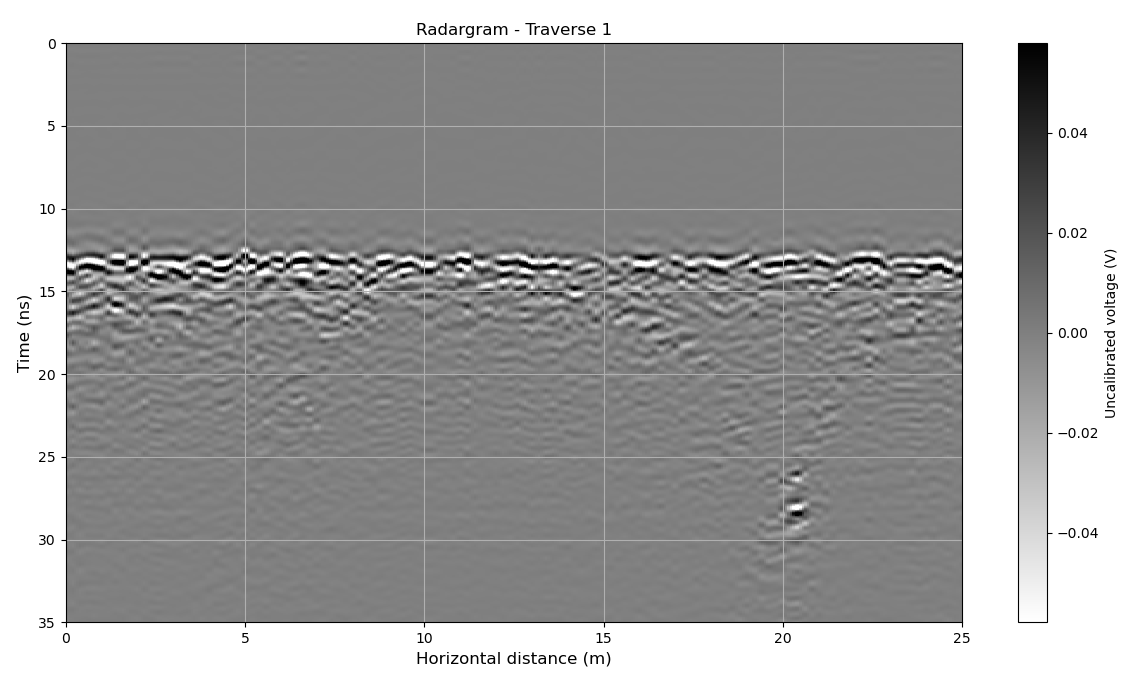
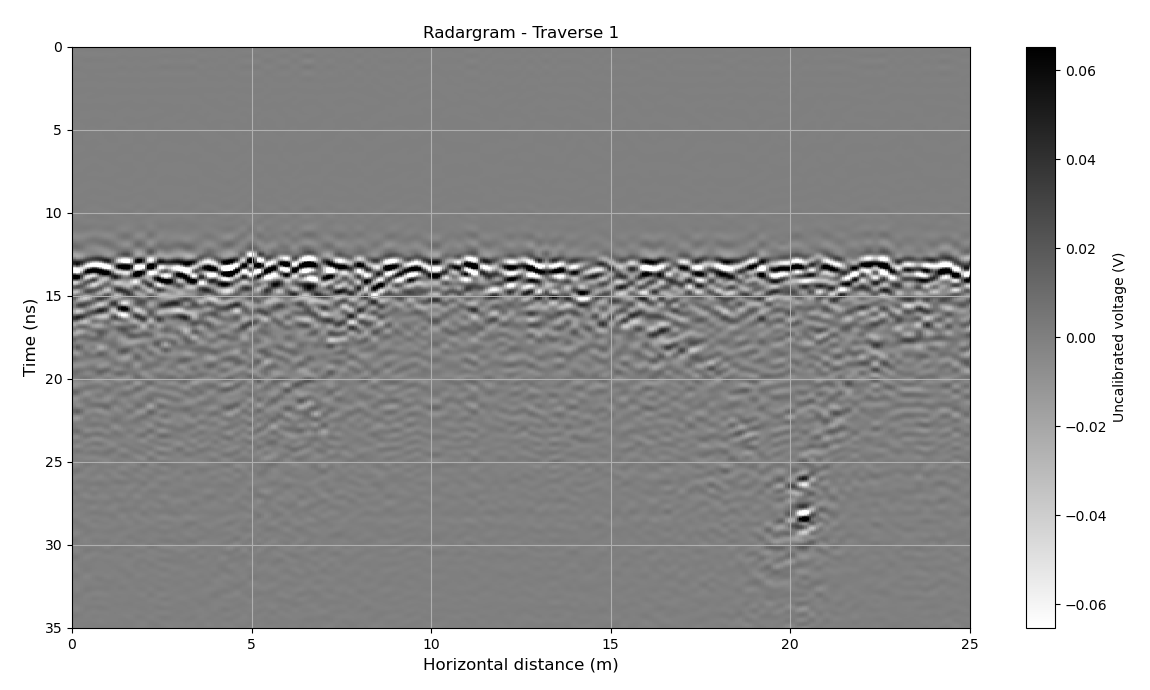
-Progress on WISDOM.

diff --git a/docs/TP_WISDOM.md b/docs/TP_WISDOM.md
@@ -741,13 +741,24 @@ Vous pouvez jouer sur la valeur du coefficient $\alpha$ pour tester son effet.
 |De manière générale, les hautes fréquences sont plus fortement atténuées que les basses.|
 |Notre fonction de gain ne dépendant pas de la fréquence, elle ne pourra jamais compenser parfaitement les pertes dans le sous-sol.|
 
-Vous l'avez sûrement remarqué, notre radargramme a toujours un aspect "pixélisé", malgré l'interpolation du "zero-padding" implémentée plus tôt.
-
-C'est lié au fait que le nombre de lignes de notre radargramme (5006) est beaucoup plus grand que le nombre de colonnes (126).
+Vous l'avez sûrement remarqué, notre radargramme a toujours un aspect "pixélisé" selon l'axe horizontal.
 
 Pour atténuer cet effet visuel, nous allons dans la suite appliquer une interpolation horizontale aux radargrammes de WISDOM.
 
 ### Interpolation horizontale
+
+Lors de la mission ExoMars, il est prévu que les sondages WISDOM soient acquis avec **un pas horizontal de 10 cm**.
+Dans le cas des 3 traverses effectués le 15/03/2022 au Svalbard, les sondages ont été acquis avec **un pas horizontal de 20 cm**.
+
+Dans un proche sous-sol martien typique, on s'attend à ce que les sondages WISDOM aient **une résolution en de l'ordre de 3 cm**.
+
+Sur Mars le pas horizontal des traverses WISDOM sera donc environ **3 fois plus grand** que la résolution des sondages, et au Svalbard il était même presque **7 fois plus grand**.
+
+Ceci explique l'aspect "pixélisé" des radargrammes WISDOM selon l'axe horizontal, qui peut gêner leur lecture.
+
+C'est pourquoi l'équipe WISDOM ajoute en général à la chaîne de traitement de l'instrument une **interpolation horizontale** des radargrammes.
+
+
 
 ![Exemple de radargramme WISDOM après interpolation horizontale](img/WISDOM_horizontal_interpolation_radargram_example.png)
 
